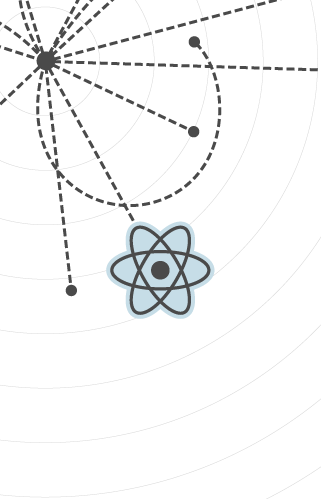
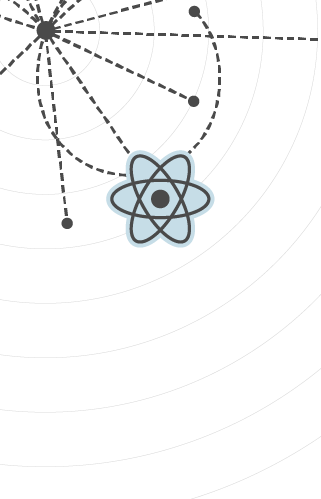
Mobile screen hero improvements

diff --git a/assets/scss/main.scss b/assets/scss/main.scss
@@ -5,6 +5,7 @@
 
   $desktop-width: 1200px;
   $mobile-width: 435px;
+  $tiny-mobile-width: 320px;
 
   .reset-spacing {
     margin: 0px;
@@ -189,11 +190,24 @@
     #hero {
       background: url("../img/SVG/ReactLondon_SaveTheDate_Web_background-03.svg")
         no-repeat
-        center center;
+        center top;
       background-size: cover;
       margin-bottom: 20px;
       .content {
-        margin-top: 380px;
+        margin-top: 330px;
+      }
+    }
+  }
+
+  @media (max-width: $tiny-mobile-width) {
+    #hero {
+      background: url("../img/SVG/ReactLondon_SaveTheDate_Web_background-03.svg")
+        no-repeat
+        center top;
+      background-size: cover;
+      margin-bottom: 20px;
+      .content {
+        margin-top: 260px;
       }
     }
   }
